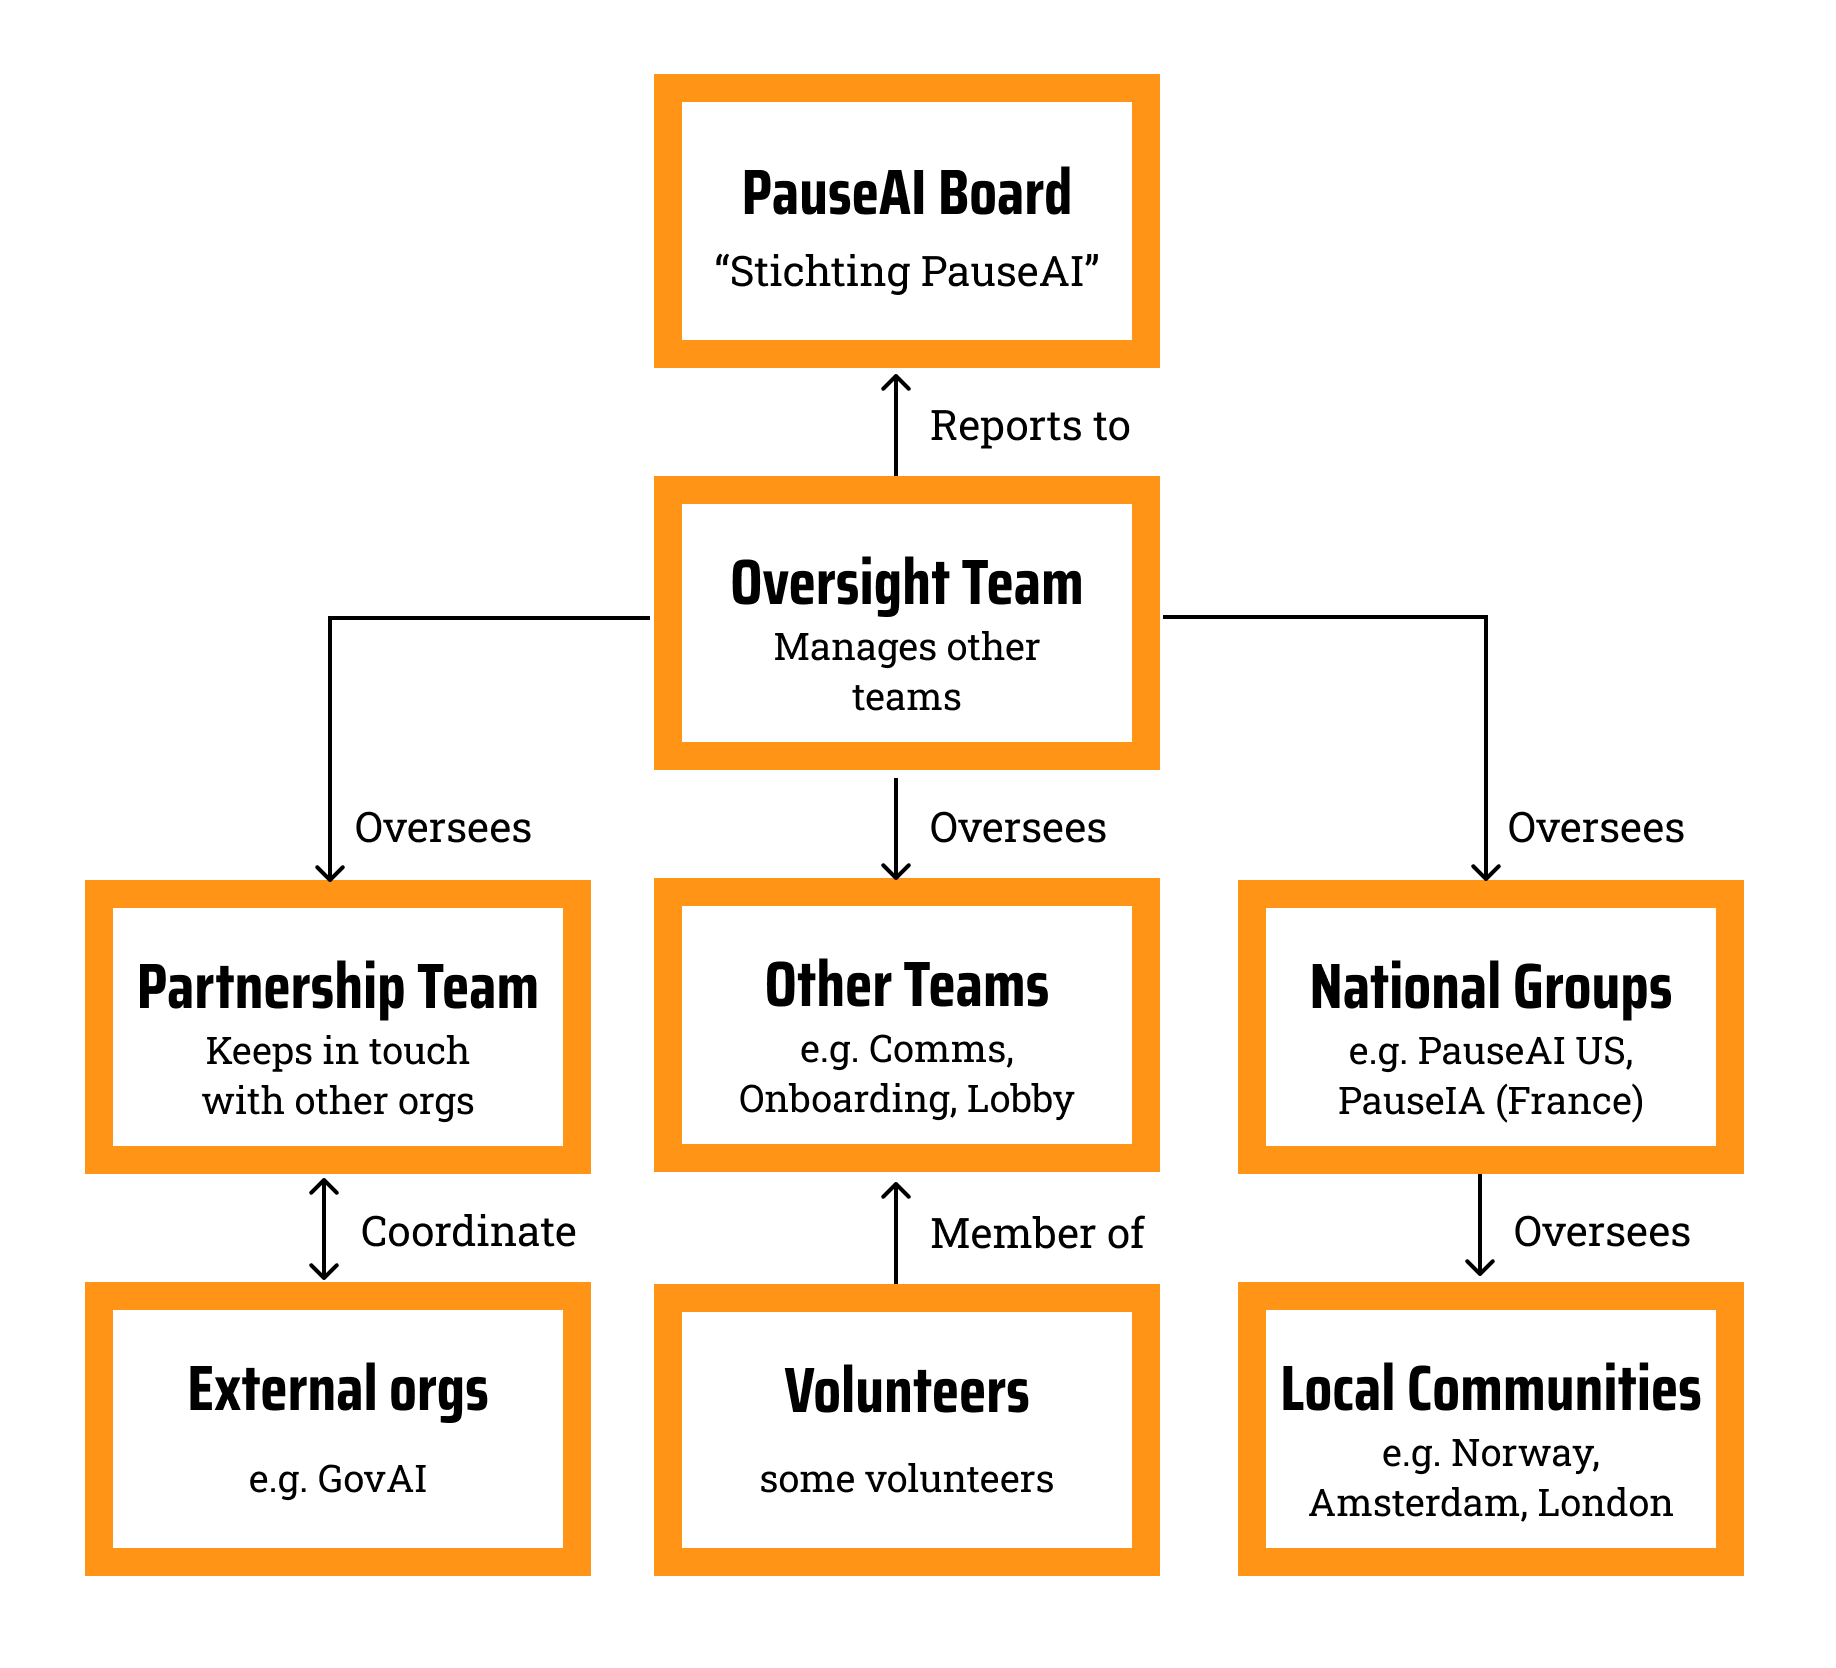
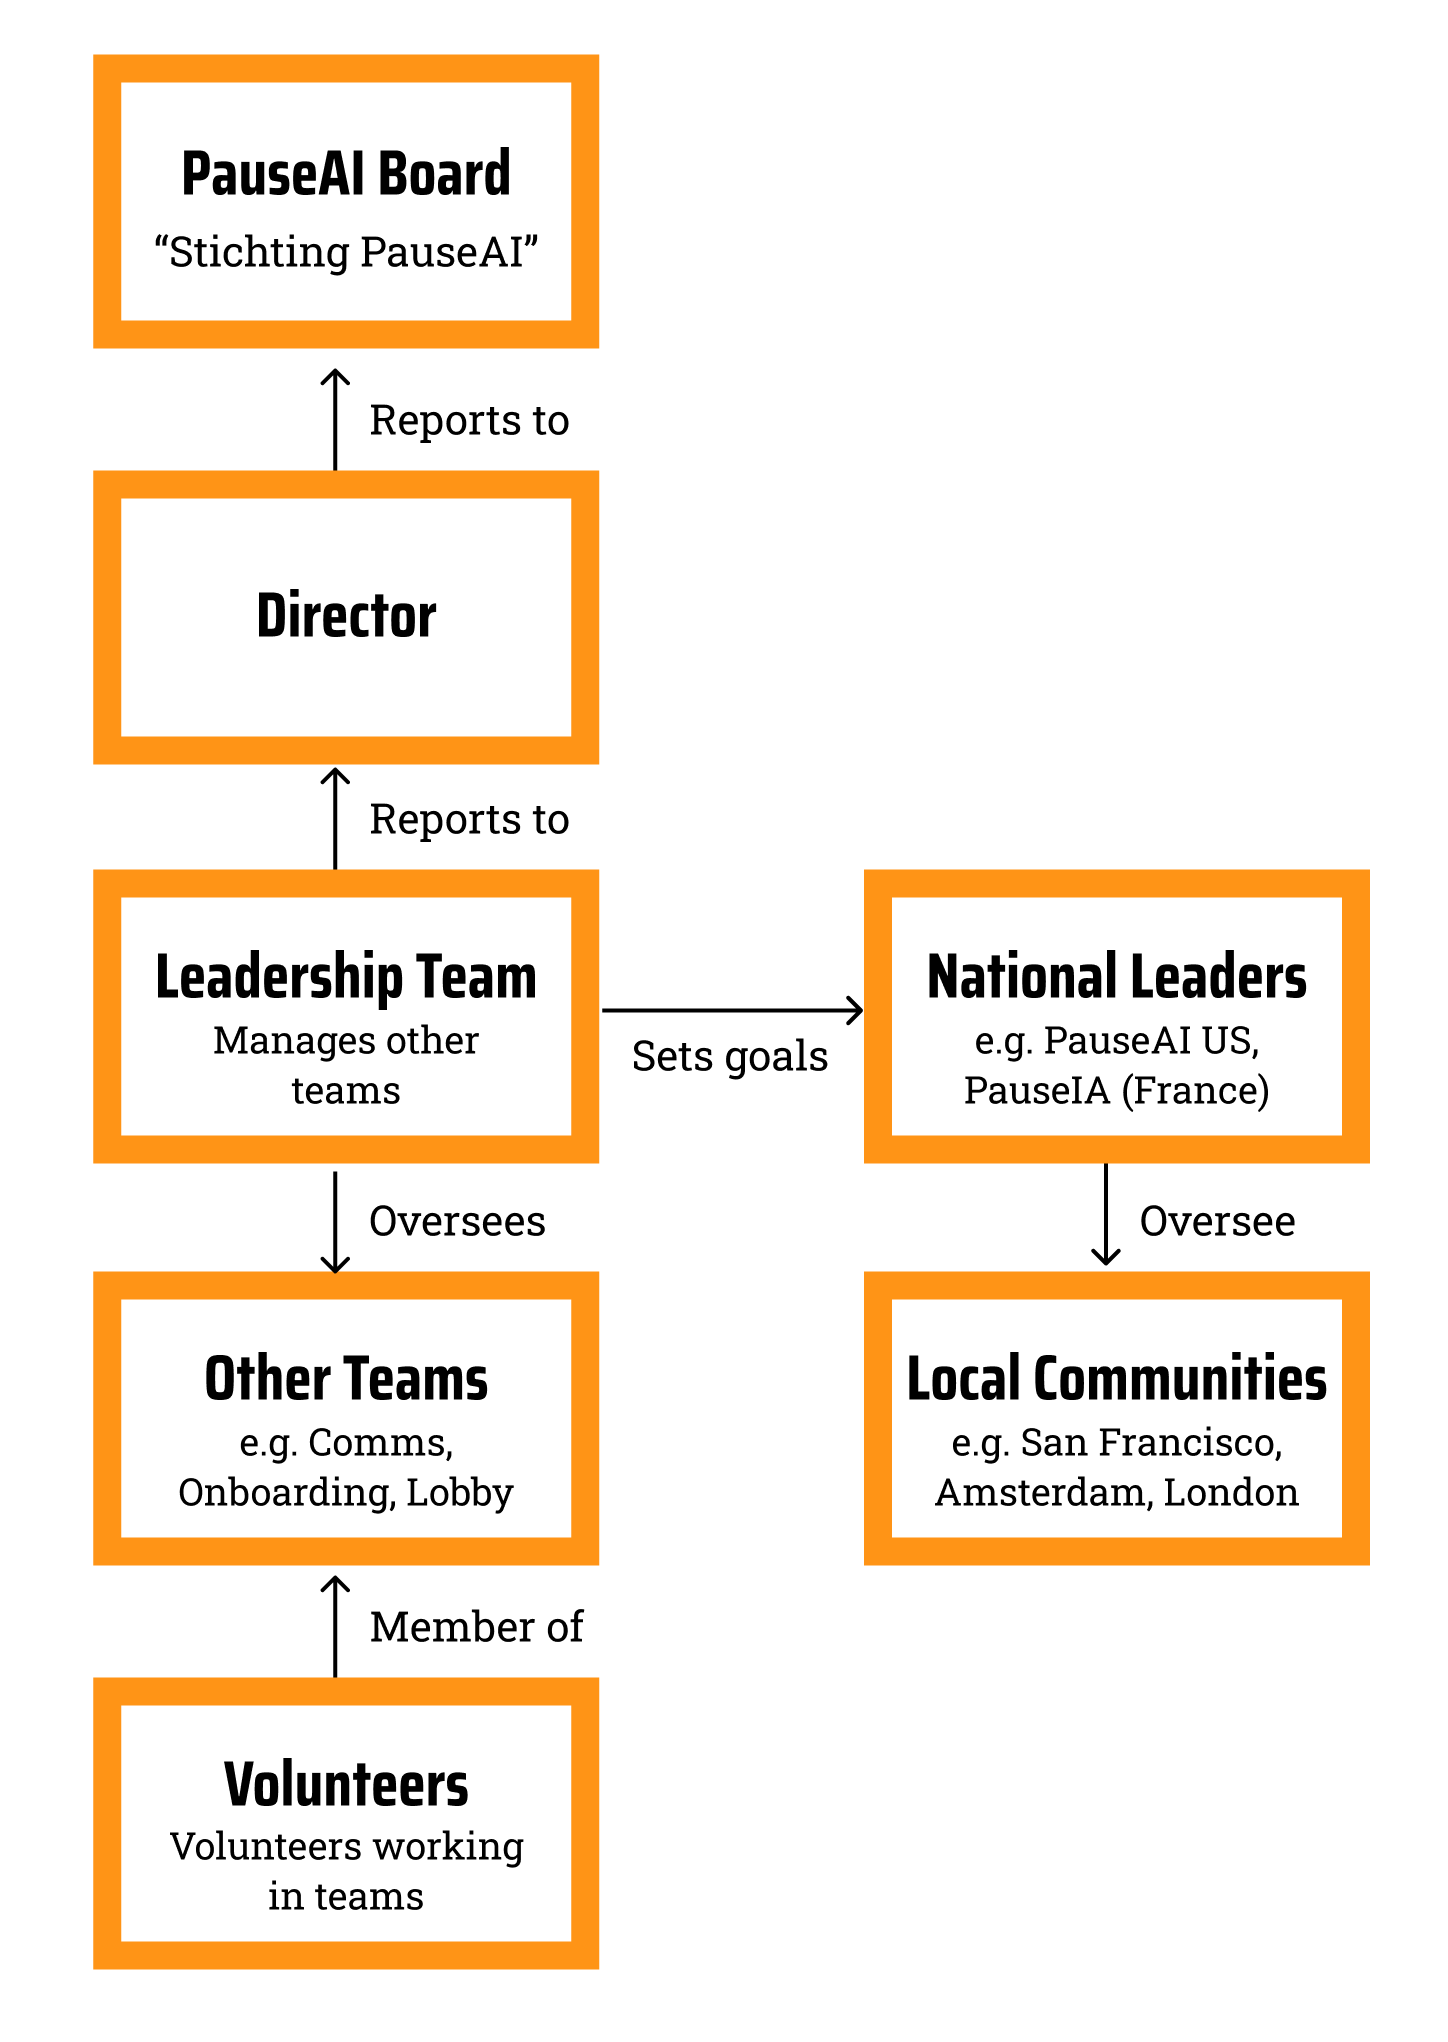
Update organogram / organization page

Changed region(s): [[0.0311, 0.0, 0.9634, 0.9664], [0.1554, 0.2806, 0.3108, 0.3118]]

diff --git a/src/posts/organization.md b/src/posts/organization.md
@@ -3,23 +3,26 @@ title: PauseAI Organization
 description: How the PauseAI organization is structured, and what resources are available for members.
 ---
 
-Welcome to PauseAI!
-
 ## Organization structure
 
-- [Legal entities](/legal): PauseAI consists of one international entity, and several local / national legal entities. This website and the social media accounts are managed by the international entity. National entities can have their own website and their own way of doing things.
-- [People (Volunteers)](/people): List of registered volunteers who have opted to show their profile and have committed to work on PauseAI for at least some hours a week.
-- [Teams](/teams): Our volunteers work in all sorts of teams. Every team has its own leader, Discord channel, Drive folder and of course list of members. Reach out to a team leader to join a team!
-- [National groups](/national-groups): National PauseAI groups are hubs that typically manage their own local communities, and are responsible for national-level strategy and coordination. They typically have their own website, social media accounts and legal entity.
+- [Legal entities](/legal): PauseAI consists of one international entity (PauseAI Global), and several local / national legal entities. This website and the social media accounts are managed by the international entity.
+- [National groups](/national-groups): National PauseAI groups are hubs that typically manage their own local communities, and are responsible for national-level strategy and coordination. They typically have their own website, social media accounts and legal entity. National leaders meet regularly to coordinate their work.
+- [Teams](/teams): Teams are groups of volunteers who work on specific projects or tasks within PauseAI Global. Every team has its own leader, Discord channel, Drive folder and of course list of members. Reach out to a team leader to join a team!
 - [Local communities](/communities): Check if there already exists a community in your area. Most groups are communicating in our discord server, in the `#local-meetups` channel (If you want to create a new local group, post there!). Some groups are using tools like WhatsApp or a separate Discord server.
+- [People (Volunteers)](/people): List of registered volunteers who have opted to show their profile and have committed to work on PauseAI for at least some hours a week.
 
 ![Organagram](/org.png)
 
+## How teams work
+
+- Teams take on certain responsibilities within PauseAI. They always have a leader, a [Team Document](https://docs.google.com/document/d/1Y6yXUrmI7hU59oplJdYErvwFQFCvofLVCrjTamhwkKU/edit?tab=t.0#heading=h.2cl0wb8wji0o) (describing the team's responsibilities and processes), a Discord channel and a Drive folder. They typically regularly meet digitally to coordinate their work.
+- Read the [Team Lead Onboarding Document](https://docs.google.com/document/d/1obQTc4o3gSmTZ5WsvOWK9vG_7Ait6ZogDgrcj_ZKjPA/edit?tab=t.0#heading=h.1lwhibce68fa) to see what's expected of a team leader.
+- If you want to join a team, reach out to the team leader.
+
 ## Onboarding process
 
-1. Sign up as a _member_ (on the [join page](/join) or on Discord)
-1. Someone from the onboarding team reaches out to you for a one-on-one!
-1. [Sign up as a _volunteer_](https://airtable.com/appWPTGqZmUcs3NWu/pag7ztLh27Omj5s2n/form). A volunteer is the next step - it involves signing an agreement, sharing your profile on the web page (if you want to) and joining one of [the teams](/teams).
+1. Sign up as a _volunteer_ (on the [join page](/join) or on Discord). An automated message is sent to the Onboarding team.
+1. Someone from the onboarding team reaches out to the volunteer and invites them for a one-on-one call. They are asked to take actions in an existing local group, set up a local group, or join one of the teams.
 
 ## Educational resources
 
